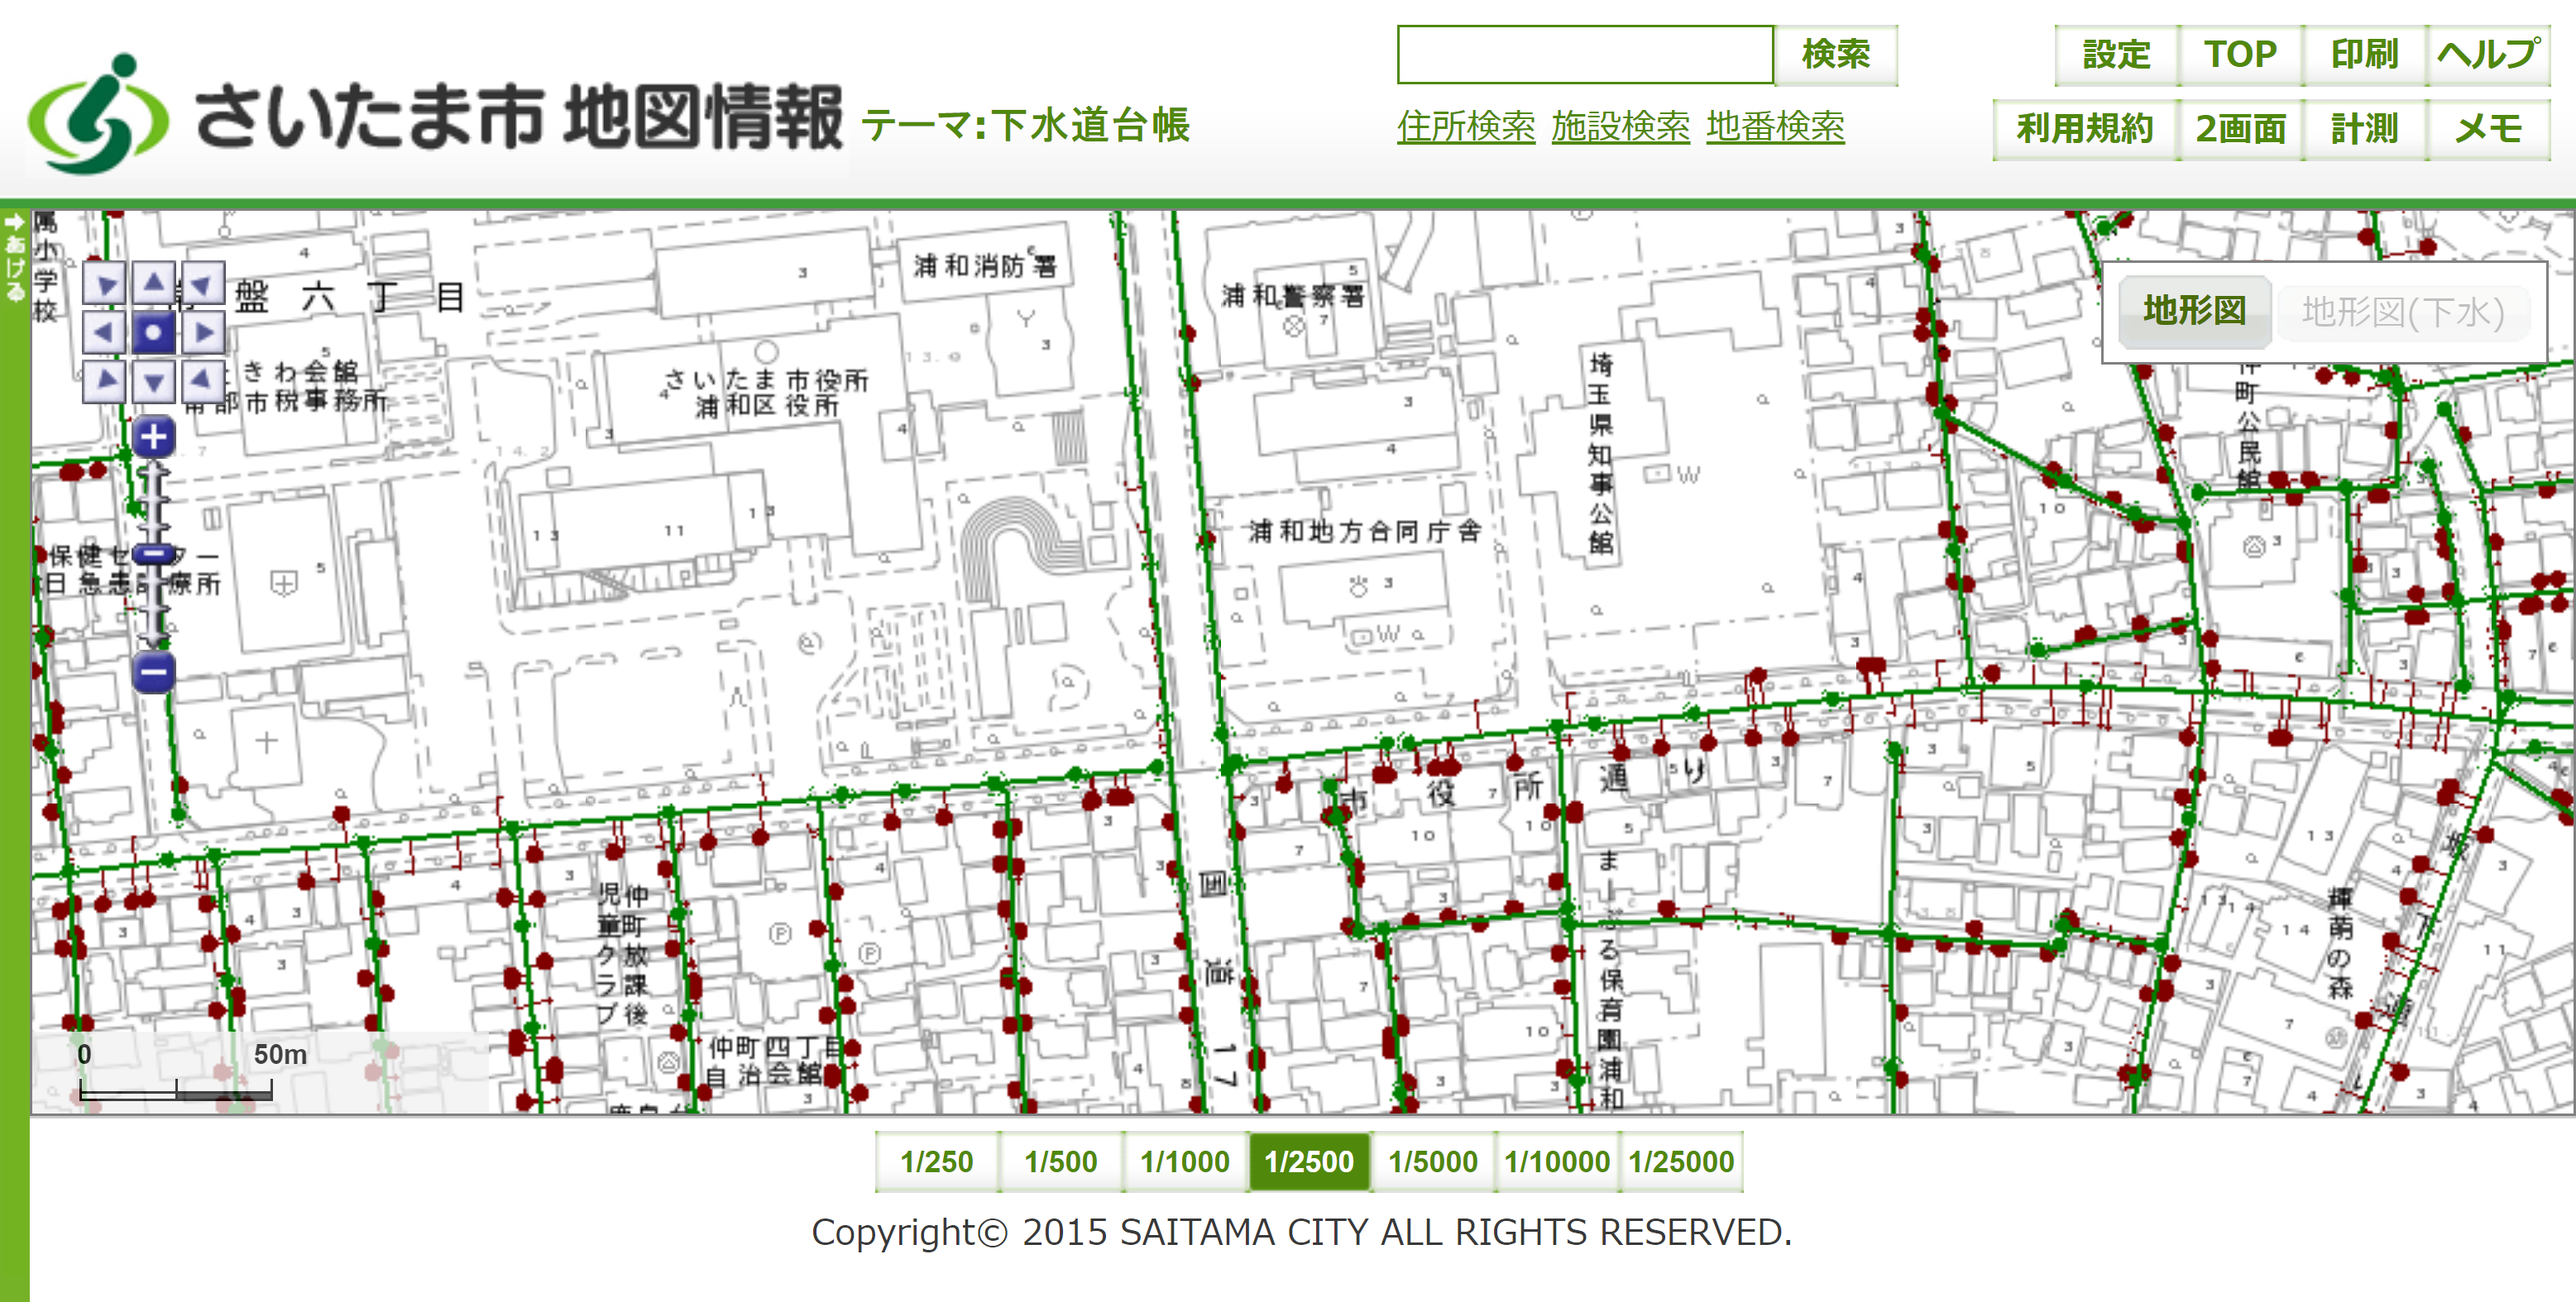
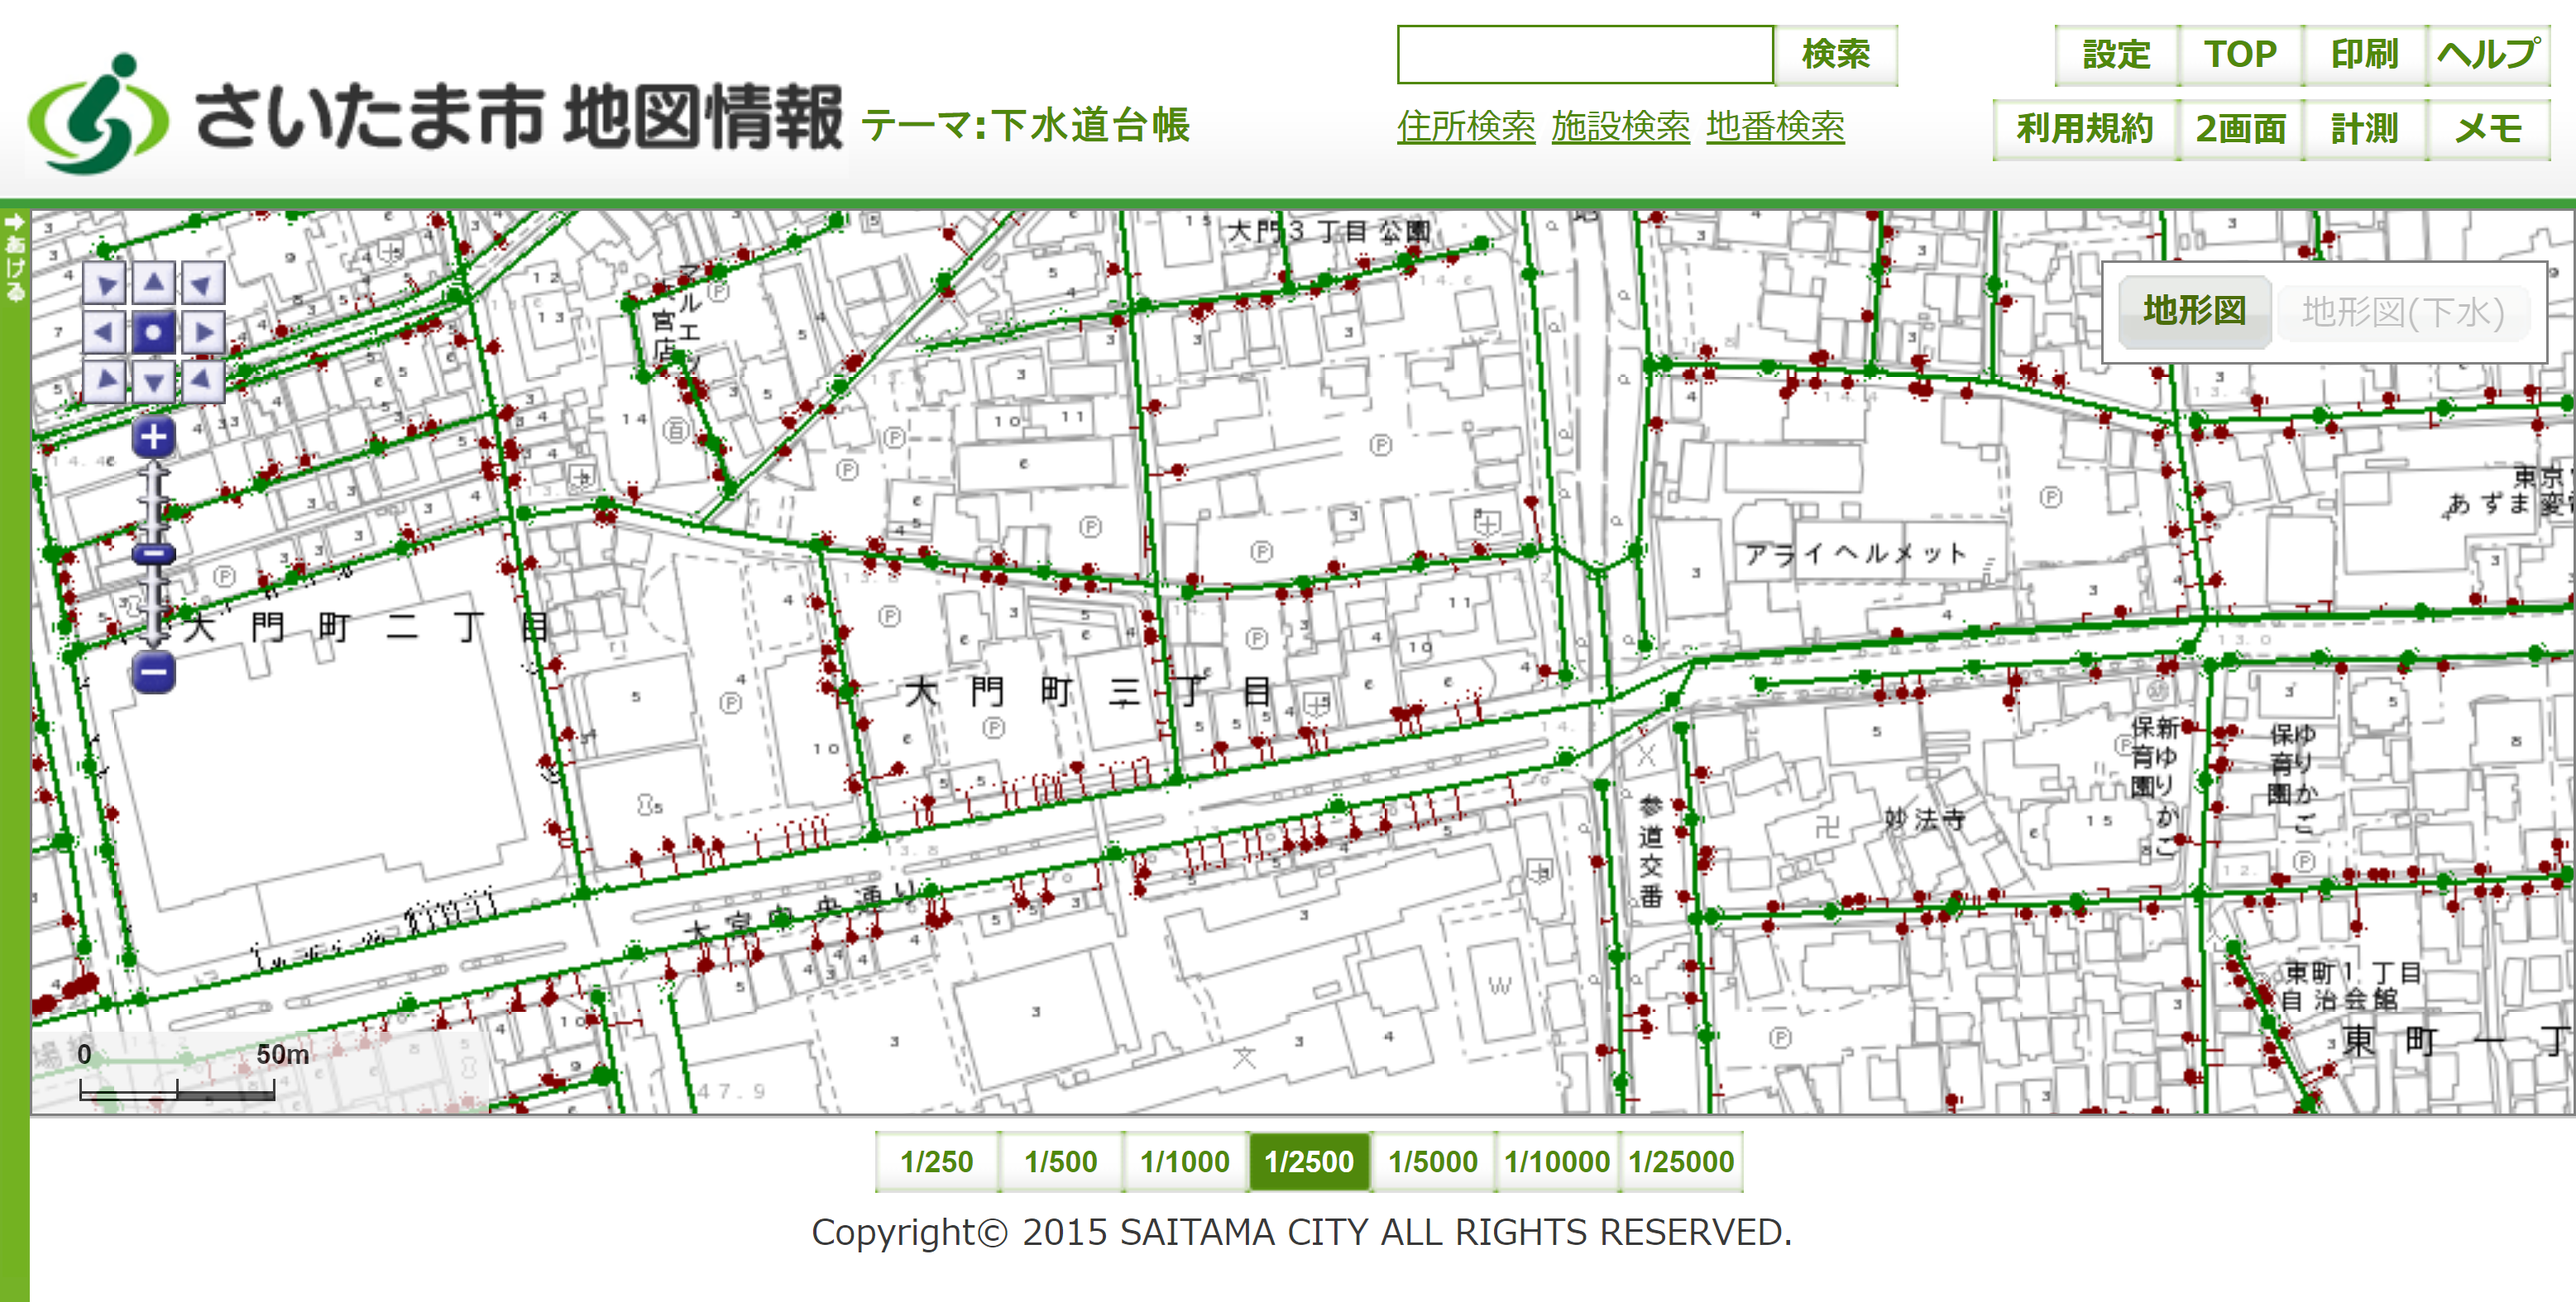
エラー修正

diff --git a/B1.py b/B1.py
@@ -14,126 +14,133 @@ import mojimoji
 
 
 def chiba(address_list):
+  err = 0
   if '千葉市' in address_list[0]:
     
-    list = address_list
+    try:
+      list = address_list
 
-    s1 = list[1]
-    s2 = list[2]
-    s3 = list[3]
-    s4 = list[4]
-    driver = webdriver.Chrome()
-    driver.get("http://s-page.tumsy.com/chibagesui/index.html")
-    time.sleep(2)
-
-    # 同意する
-    iframe = driver.find_element(By.XPATH,"/html/frameset/frame")
-    driver.switch_to.frame(iframe)
-    time.sleep(2)
-
-    driver.execute_script("window.scrollBy(0, document.body.scrollHeight);")
-
-    actionChains = ActionChains(driver)
-    
-    actionChains.click(driver.find_element(By.XPATH,"//*[@id='LinkButton1']")).perform()
-    # driver.switch_to.default_content()
-    time.sleep(5)
-    
-    d1 = driver.find_element(By.XPATH,"//*[@id='ELM_CMB_LEV1']")
-    select = Select(d1)
-    select.select_by_visible_text(s1)
-    time.sleep(2)
-    d2 = driver.find_element(By.XPATH,"//*[@id='ELM_CMB_LEV2']")
-    select = Select(d2)
-    select.select_by_visible_text(s2)
-    time.sleep(2)
-
-    d3 = driver.find_element(By.XPATH,"//*[@id='ELM_CMB_LEV3']")
-    select = Select(d3)
-    selected = select.all_selected_options
-
-    if selected[0].text =="丁目なし":
+      s1 = list[1]
+      s2 = list[2]
+      s3 = list[3]
+      s4 = list[4]
+      driver = webdriver.Chrome()
+      driver.get("http://s-page.tumsy.com/chibagesui/index.html")
       time.sleep(2)
-      d4 = driver.find_element(By.XPATH,"//*[@id='ELM_CMB_LEV4']")
-      select = Select(d4)
-      s4 = s3 + "番地"
-      select.select_by_visible_text(s4)
+
+      # 同意する
+      iframe = driver.find_element(By.XPATH,"/html/frameset/frame")
+      driver.switch_to.frame(iframe)
       time.sleep(2)
-      a = 0
-    else:
+
+      driver.execute_script("window.scrollBy(0, document.body.scrollHeight);")
+
+      actionChains = ActionChains(driver)
+      
+      actionChains.click(driver.find_element(By.XPATH,"//*[@id='LinkButton1']")).perform()
+      # driver.switch_to.default_content()
+      time.sleep(5)
+      
+      d1 = driver.find_element(By.XPATH,"//*[@id='ELM_CMB_LEV1']")
+      select = Select(d1)
+      select.select_by_visible_text(s1)
+      time.sleep(2)
+      d2 = driver.find_element(By.XPATH,"//*[@id='ELM_CMB_LEV2']")
+      select = Select(d2)
+      select.select_by_visible_text(s2)
+      time.sleep(2)
+
       d3 = driver.find_element(By.XPATH,"//*[@id='ELM_CMB_LEV3']")
       select = Select(d3)
-      s3 = s3 + "丁目"
-      select.select_by_visible_text(s3)
+      selected = select.all_selected_options
+
+      if selected[0].text =="丁目なし":
+        time.sleep(2)
+        d4 = driver.find_element(By.XPATH,"//*[@id='ELM_CMB_LEV4']")
+        select = Select(d4)
+        s4 = s3 + "番地"
+        select.select_by_visible_text(s4)
+        time.sleep(2)
+        a = 0
+      else:
+        d3 = driver.find_element(By.XPATH,"//*[@id='ELM_CMB_LEV3']")
+        select = Select(d3)
+        s3 = s3 + "丁目"
+        select.select_by_visible_text(s3)
+        time.sleep(2)
+        d4 = driver.find_element(By.XPATH,"//*[@id='ELM_CMB_LEV4']")
+        select = Select(d4)
+        s4 = s4 + "番"
+        select.select_by_visible_text(s4)
+        time.sleep(2)
+        a = 1
+
+      actionChains.click(driver.find_element(By.XPATH,"//*[@id='btnAddSchDlgOK']")).perform()
       time.sleep(2)
-      d4 = driver.find_element(By.XPATH,"//*[@id='ELM_CMB_LEV4']")
-      select = Select(d4)
-      s4 = s4 + "番"
-      select.select_by_visible_text(s4)
+      FILENAME = os.path.join(os.path.abspath(os.path.dirname(__file__)), 'image/B-1.png')
+      driver.save_screenshot(FILENAME)
+
+      driver.get("https://webgis.alandis.jp/chiba12/portal/index.html")
       time.sleep(2)
-      a = 1
 
-    actionChains.click(driver.find_element(By.XPATH,"//*[@id='btnAddSchDlgOK']")).perform()
-    time.sleep(2)
-    FILENAME = os.path.join(os.path.abspath(os.path.dirname(__file__)), 'image/B-1.png')
-    driver.save_screenshot(FILENAME)
-
-    driver.get("https://webgis.alandis.jp/chiba12/portal/index.html")
-    time.sleep(2)
-
-    driver.execute_script("window.scrollBy(0, document.body.scrollHeight);")
-    actionChains.click(driver.find_element(By.XPATH,"//*[@id='agree']")).perform()
-    time.sleep(2)
-    
-    driver.execute_script("window.scrollBy(0, document.body.scrollHeight);")
-    driver.find_element(By.XPATH,"/html/body/main/div[2]/div[2]/div/div/map/area[265]").click()
-    time.sleep(4)
-    actionChains.click(driver.find_element(By.XPATH,"//*[@id='sidemenu_tab_search']")).perform()
-    time.sleep(2)
-    
-    actionChains.click(driver.find_element(By.XPATH,"//*[@id='sidemenu_menu_search_drilldown_1']/span")).perform()
-    time.sleep(2)
-
-    d5 = driver.find_element(By.XPATH,"//*[@id='srh_search_drilldown_1_attrvalue_1']")
-    select = Select(d5)
-    select.select_by_visible_text(s1)
-    time.sleep(5)
-    
-    d6 = driver.find_element(By.XPATH,"//*[@id='srh_search_drilldown_1_attrvalue_2']")
-    select = Select(d6)
-    # 丁目なし
-    if a == 0:
-      select.select_by_visible_text(s2)
-      time.sleep(5)
-      d7 = driver.find_element(By.XPATH,"//*[@id='srh_search_drilldown_1_attrvalue_3']")
-      select = Select(d7)
-      s3 = mojimoji.zen_to_han(s3)
-      select.select_by_visible_text(s3)
+      driver.execute_script("window.scrollBy(0, document.body.scrollHeight);")
+      actionChains.click(driver.find_element(By.XPATH,"//*[@id='agree']")).perform()
+      time.sleep(2)
       
-    # 丁目あり
-    else:
-      s2 = s2 + s3 
-      select.select_by_visible_text(s2)
+      driver.execute_script("window.scrollBy(0, document.body.scrollHeight);")
+      driver.find_element(By.XPATH,"/html/body/main/div[2]/div[2]/div/div/map/area[265]").click()
+      time.sleep(4)
+      actionChains.click(driver.find_element(By.XPATH,"//*[@id='sidemenu_tab_search']")).perform()
+      time.sleep(2)
+      
+      actionChains.click(driver.find_element(By.XPATH,"//*[@id='sidemenu_menu_search_drilldown_1']/span")).perform()
+      time.sleep(2)
+
+      d5 = driver.find_element(By.XPATH,"//*[@id='srh_search_drilldown_1_attrvalue_1']")
+      select = Select(d5)
+      select.select_by_visible_text(s1)
       time.sleep(5)
-      d7 = driver.find_element(By.XPATH,"//*[@id='srh_search_drilldown_1_attrvalue_3']")
-      select = Select(d7)
-      s4 = s4[:-1]
-      s4 = mojimoji.zen_to_han(s4)
+      
+      d6 = driver.find_element(By.XPATH,"//*[@id='srh_search_drilldown_1_attrvalue_2']")
+      select = Select(d6)
+      # 丁目なし
+      if a == 0:
+        select.select_by_visible_text(s2)
+        time.sleep(5)
+        d7 = driver.find_element(By.XPATH,"//*[@id='srh_search_drilldown_1_attrvalue_3']")
+        select = Select(d7)
+        s3 = mojimoji.zen_to_han(s3)
+        select.select_by_visible_text(s3)
+        
+      # 丁目あり
+      else:
+        s2 = s2 + s3 
+        select.select_by_visible_text(s2)
+        time.sleep(5)
+        d7 = driver.find_element(By.XPATH,"//*[@id='srh_search_drilldown_1_attrvalue_3']")
+        select = Select(d7)
+        s4 = s4[:-1]
+        s4 = mojimoji.zen_to_han(s4)
 
-      select.select_by_visible_text(s4)
+        select.select_by_visible_text(s4)
 
-    time.sleep(2)
-    actionChains.click(driver.find_element(By.XPATH,"//*[@id='srh_search_drilldown_1_btn']")).perform()
-    time.sleep(5)
-    actionChains.click(driver.find_element(By.XPATH,"//*[@id='sidemenu_tab_search']")).perform()
-    time.sleep(2)
-    actionChains.click(driver.find_element(By.XPATH,"//*[@id='index_hidden']")).perform()
-    time.sleep(2)
+      time.sleep(2)
+      actionChains.click(driver.find_element(By.XPATH,"//*[@id='srh_search_drilldown_1_btn']")).perform()
+      time.sleep(5)
+      actionChains.click(driver.find_element(By.XPATH,"//*[@id='sidemenu_tab_search']")).perform()
+      time.sleep(2)
+      actionChains.click(driver.find_element(By.XPATH,"//*[@id='index_hidden']")).perform()
+      time.sleep(2)
+      
+      FILENAME1 = os.path.join(os.path.abspath(os.path.dirname(__file__)), 'image/B-2.png')
+      driver.save_screenshot(FILENAME1)
+
+      driver.quit()
     
-    FILENAME1 = os.path.join(os.path.abspath(os.path.dirname(__file__)), 'image/B-2.png')
-    driver.save_screenshot(FILENAME1)
-
-    driver.quit()
+    except:
+      err = 1
 
   else:
     print("千葉県千葉市ではない") 
+    err = 1
+  return(err)

diff --git a/B3.py b/B3.py
@@ -13,6 +13,7 @@ import os
 URL = 'http://www.geocoding.jp/api/'
 
 def saitama_gesui(address_list):
+    err = 0
     """
     addressに住所を指定すると緯度経度を返す。
 
@@ -26,9 +27,15 @@ def saitama_gesui(address_list):
     xml = requests.get(URL, params=payload)
     soup = BeautifulSoup(xml.content, "xml")
     if soup.find('error'):
-        raise ValueError(f"Invalid address submitted. {address}")
+        err = 1
     latitude = soup.find('lat').string
     longitude = soup.find('lng').string
+
+    soup = BeautifulSoup(xml.content, 'xml')
+    found = soup.find('google_maps').string
+    
+    if found[-1] != '0' or found[-1] != '1' or found[-1] != '2' or found[-1] != '3' or found[-1] != '4' or found[-1] != '5' or found[-1] != '6' or found[-1] != '7' or found[-1] != '8' or found[-1] != '9':
+        err = 1
 
     """
     埼玉の下水を検索・スクショ
@@ -64,3 +71,4 @@ def saitama_gesui(address_list):
     FILENAME = os.path.join(os.path.abspath(os.path.dirname(__file__)), "image\B-3.png")
 
     driver.save_screenshot(FILENAME)
+    return(err)

diff --git a/B4.py b/B4.py
@@ -11,6 +11,7 @@ import time
 import os
 
 def saitama_doro(address_list):
+    err = 0
     """
     addressに住所を指定すると緯度経度を返す。
 
@@ -25,9 +26,15 @@ def saitama_doro(address_list):
     xml = requests.get(URL, params=payload)
     soup = BeautifulSoup(xml.content, "xml")
     if soup.find('error'):
-        raise ValueError(f"Invalid address submitted. {address}")
+        err = 1
     latitude = soup.find('lat').string
     longitude = soup.find('lng').string
+
+    soup = BeautifulSoup(xml.content, 'xml')
+    found = soup.find('google_maps').string
+    
+    if found[-1] != '0' or found[-1] != '1' or found[-1] != '2' or found[-1] != '3' or found[-1] != '4' or found[-1] != '5' or found[-1] != '6' or found[-1] != '7' or found[-1] != '8' or found[-1] != '9':
+        err = 1
 
     """
     埼玉の道路を検索・スクショ
@@ -61,3 +68,4 @@ def saitama_doro(address_list):
     FILENAME = os.path.join(os.path.abspath(os.path.dirname(__file__)), "image\B-4.png")
 
     driver.save_screenshot(FILENAME)
+    return(err)

diff --git a/main.py b/main.py
@@ -3,11 +3,19 @@ import B3
 import B4
 import B6
 
-address = "埼玉県さいたま市浦和区常盤６丁目４−４"
+address = "埼玉県さいたま市大宮区大門町６丁目５"
+
+err = 0
+"""
+err = 0 : エラーなし
+err = 1 : 住所が不適
+"""
 
 address_list = B6.yure(address)
 if "千葉市" in address_list[0]:
-    B1.chiba(address_list)
-elif "さいたま市" in address_list[0] or "埼玉" in address_list[0]:
-    B3.saitama_gesui(address_list)
-    B4.saitama_doro(address_list)
+    err = B1.chiba(address_list)
+elif "さいたま市" in address_list[0]:
+    err = B3.saitama_gesui(address_list)
+    err = B4.saitama_doro(address_list)
+
+print(err)
